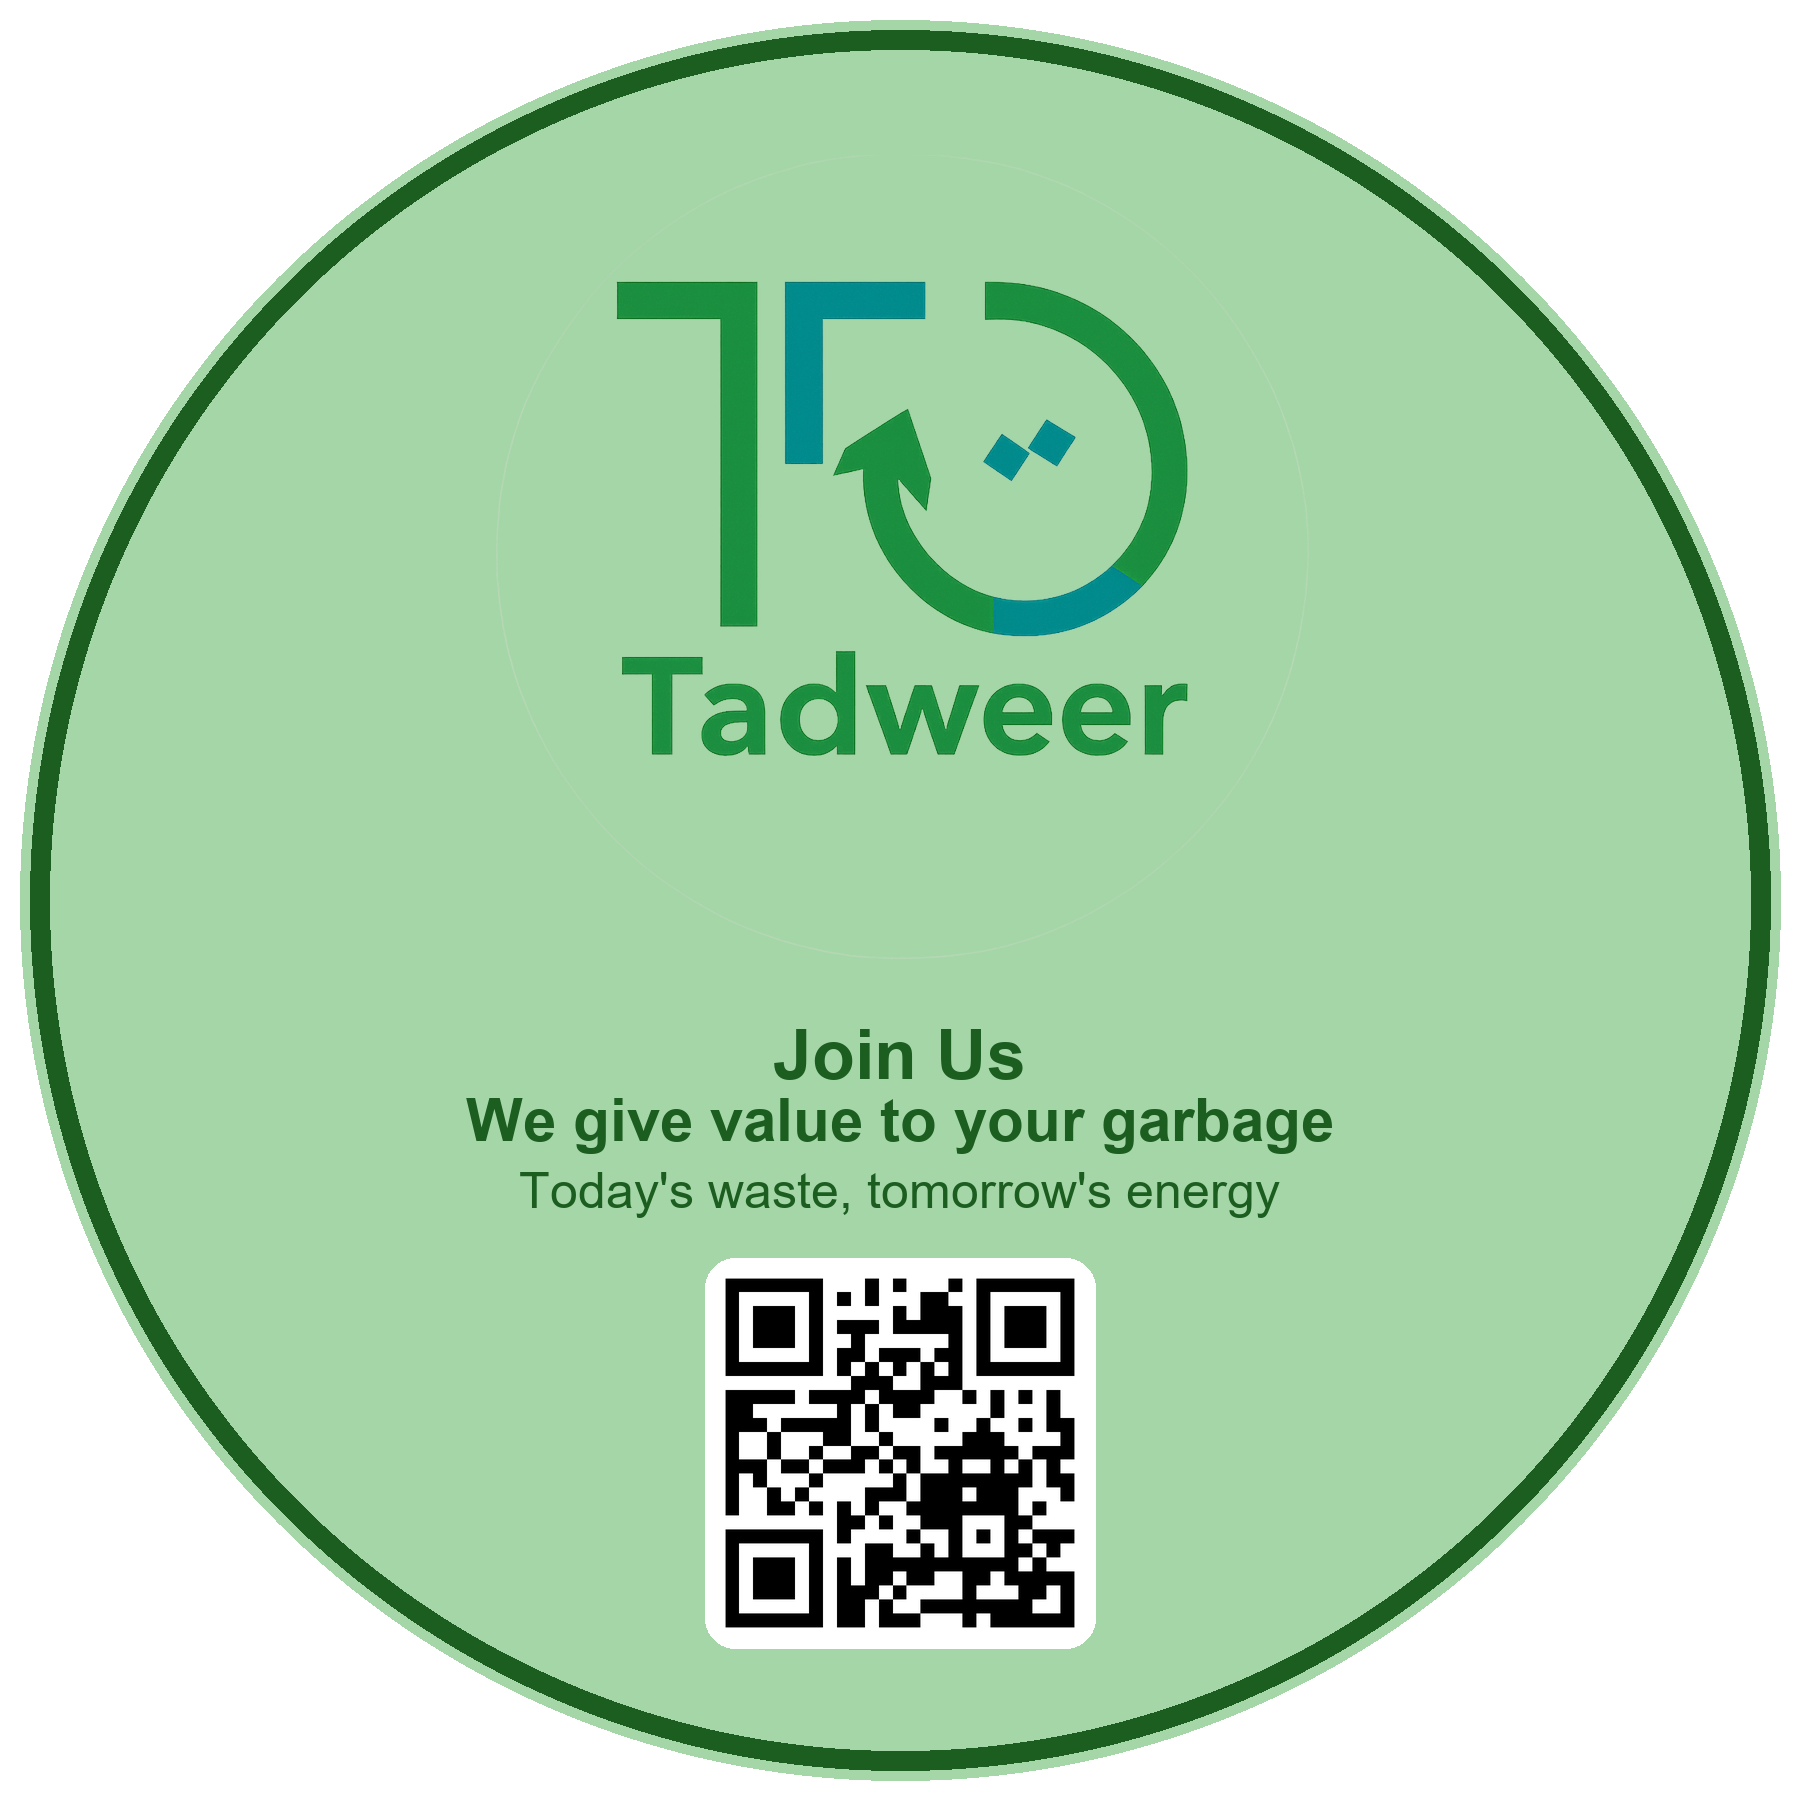
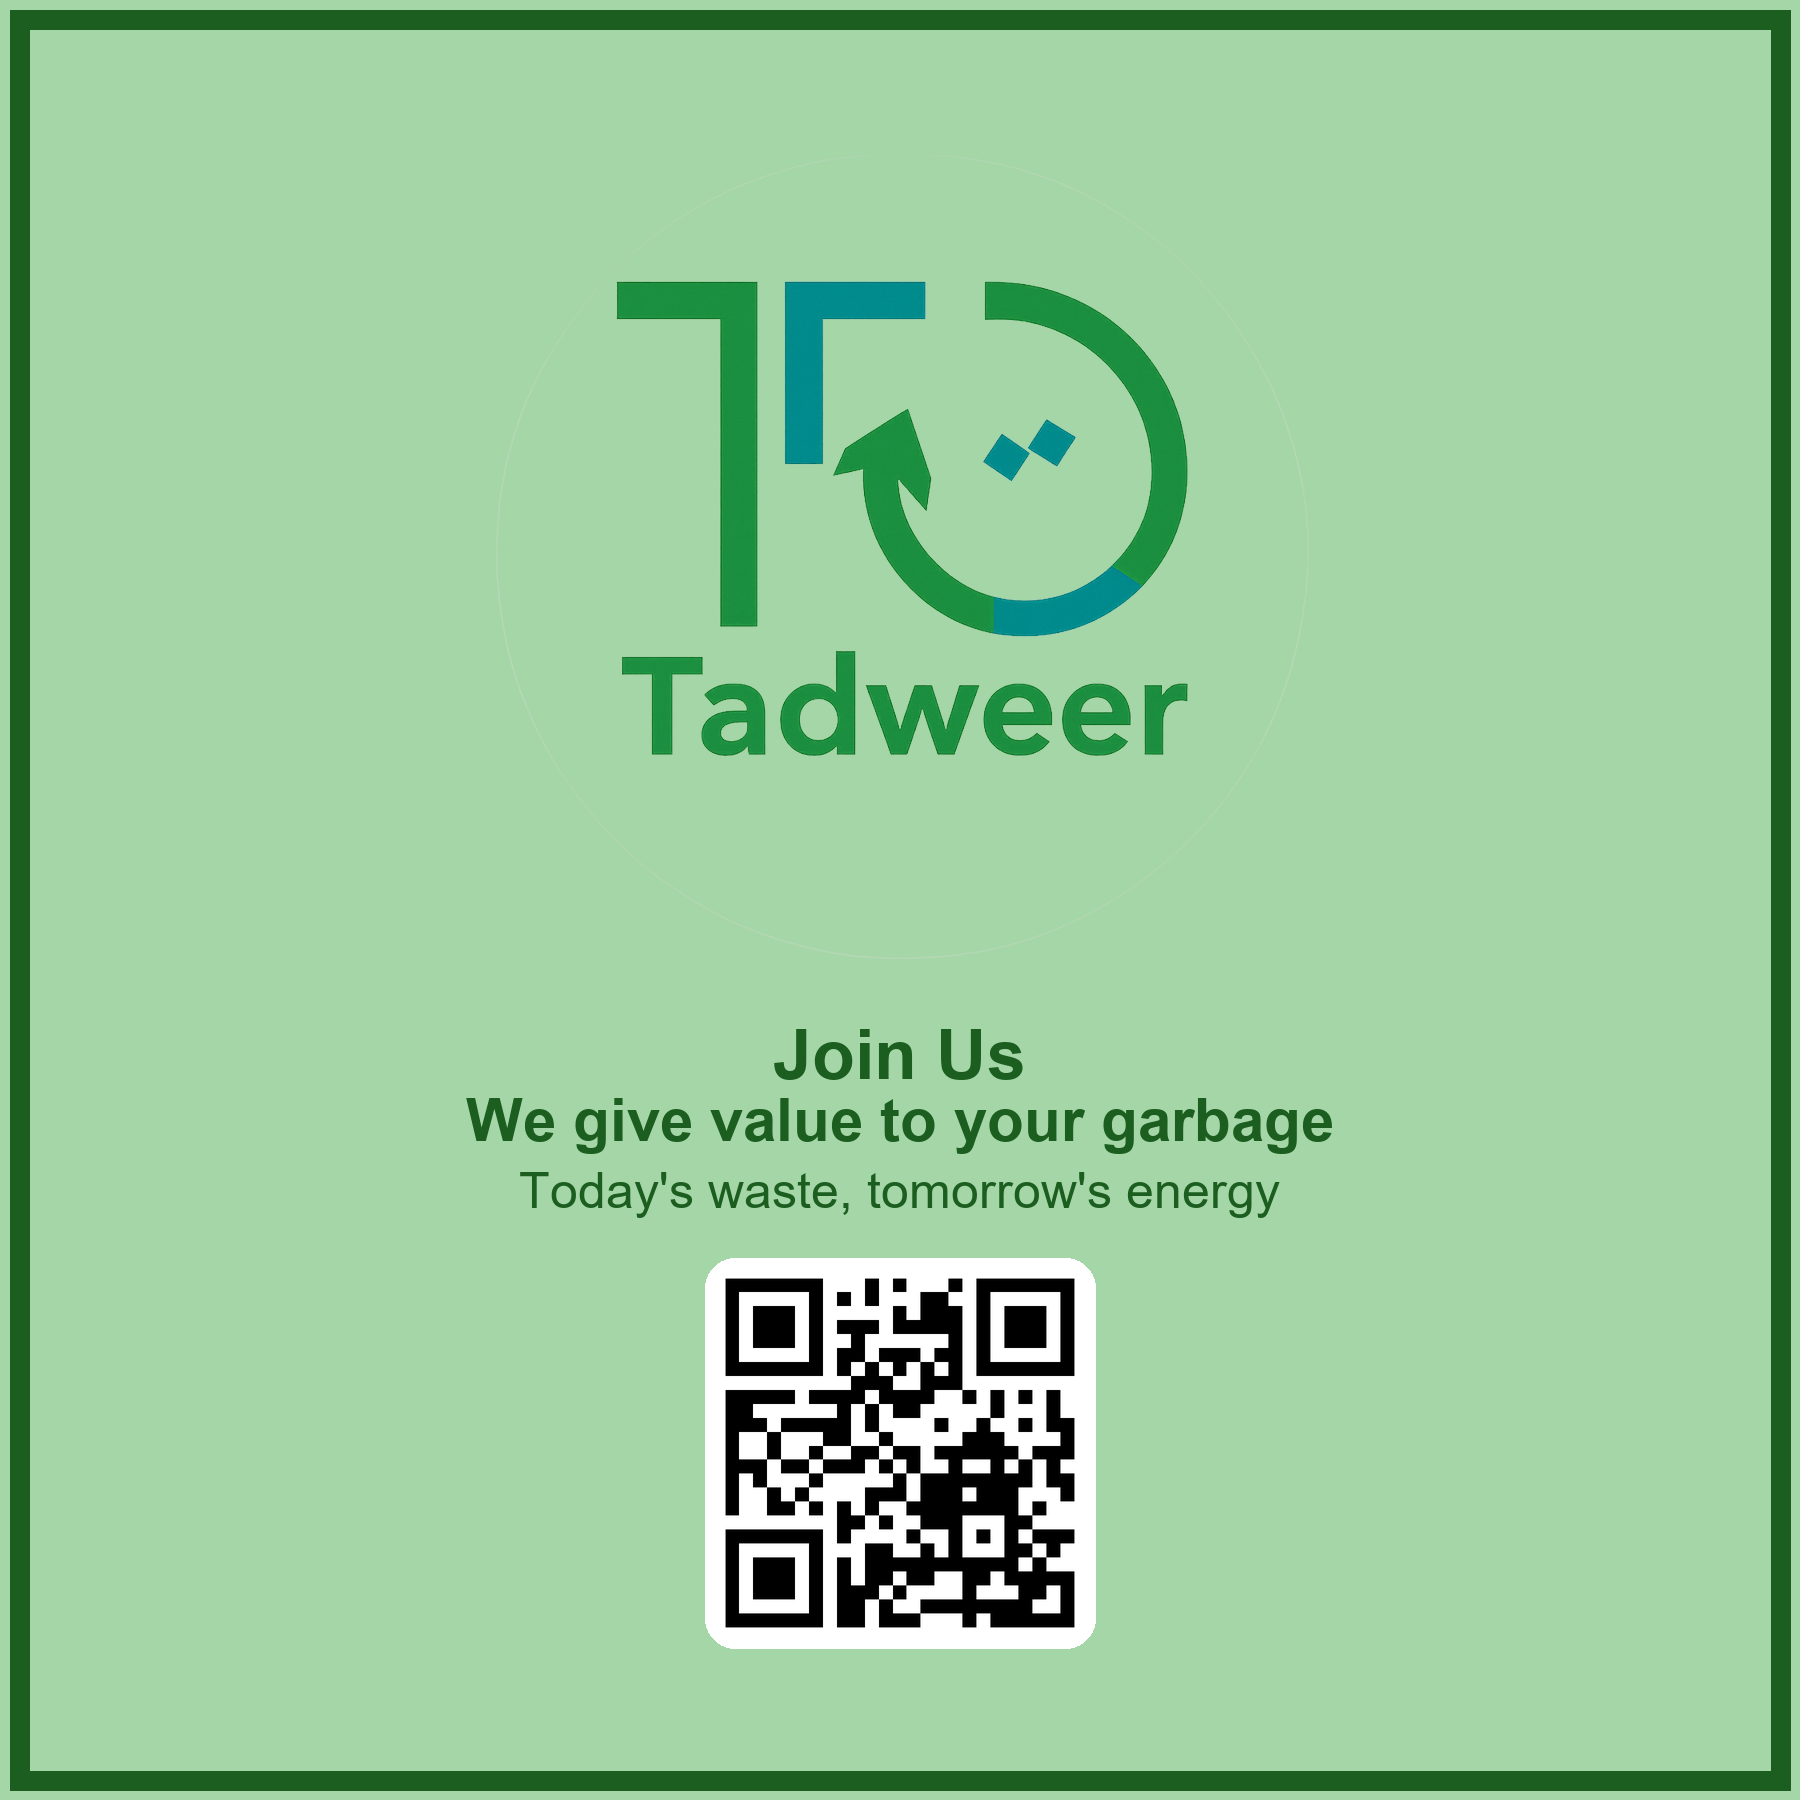
Update sticker: Change shape to square to optimize space, remove circular border

Changed region(s): [[0.0, 0.0, 1.0, 1.0]]

diff --git a/tools/generate_sticker.py b/tools/generate_sticker.py
@@ -23,16 +23,8 @@ TAGLINE = "Today's waste, tomorrow's energy"
 img = Image.new('RGBA', (WIDTH, HEIGHT), (0, 0, 0, 0))
 draw = ImageDraw.Draw(img)
 
-# Draw main circular background
-# Leave a small margin for the cut line
-margin = 20
-circle_radius = (WIDTH // 2) - margin
-center = (WIDTH // 2, HEIGHT // 2)
-draw.ellipse(
-    [(center[0] - circle_radius, center[1] - circle_radius),
-     (center[0] + circle_radius, center[1] + circle_radius)],
-    fill=BG_COLOR
-)
+# Draw main SQUARE background
+draw.rectangle([(0, 0), (WIDTH, HEIGHT)], fill=BG_COLOR)
 
 # Try to load fonts
 try:
@@ -117,11 +109,10 @@ qr_x = (WIDTH - qr_size) // 2
 qr_y = qr_bg_y + qr_bg_padding
 img.paste(qr, (qr_x, qr_y), qr)
 
-# Add a nice border ring
+# Add a nice border
 border_width = 20
-draw.ellipse(
-    [(center[0] - circle_radius + border_width//2, center[1] - circle_radius + border_width//2),
-     (center[0] + circle_radius - border_width//2, center[1] + circle_radius - border_width//2)],
+draw.rectangle(
+    [(border_width//2, border_width//2), (WIDTH - border_width//2, HEIGHT - border_width//2)],
     outline=TEXT_COLOR,
     width=border_width
 )
